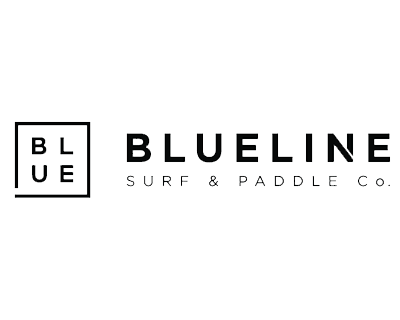
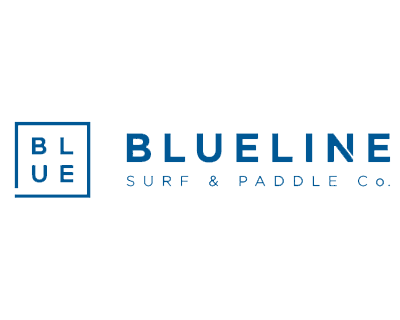
Fixed stuff
Closed <a> tag for flatspot
added color to logos
fixed my picture

diff --git a/contest1.html b/contest1.html
@@ -81,7 +81,7 @@
                             <div class="col-md-2 col-sm-6 col-xs-6"><a href="http://bocasurfandsail.com/" target="_blank"><img src="images/bss.png" class="img-responsive sponsorlogo" alt="Boca Surf and Sail"></a></div>
                             <div class="col-md-2 col-sm-6 col-xs-6"><a href="https://www.bluelinesurf.com/" target="_blank"><img src="images/blueline.png" class="img-responsive sponsorlogo" alt="Blue Line Surf"></a></div>
                             <div class="col-md-2 col-sm-6 col-xs-6"><a href="https://www.surfworld.us/" target="_blank"><img src="images/surfworld.png" class="img-responsive sponsorlogo" alt="Surf World"></a></div>
-                            <div class="col-md-2 col-sm-6 col-xs-6"><a href="https://www.facebook.com/Flatspotboardshop/" target="_blank"><img src="images/flatspot.png" class="img-responsive sponsorlogo" alt="Flatspot Boardshop"></div>
+                            <div class="col-md-2 col-sm-6 col-xs-6"><a href="https://www.facebook.com/Flatspotboardshop/" target="_blank"><img src="images/flatspot.png" class="img-responsive sponsorlogo" alt="Flatspot Boardshop"></a></div>
                         </div>
                     </div>
                 </div>
